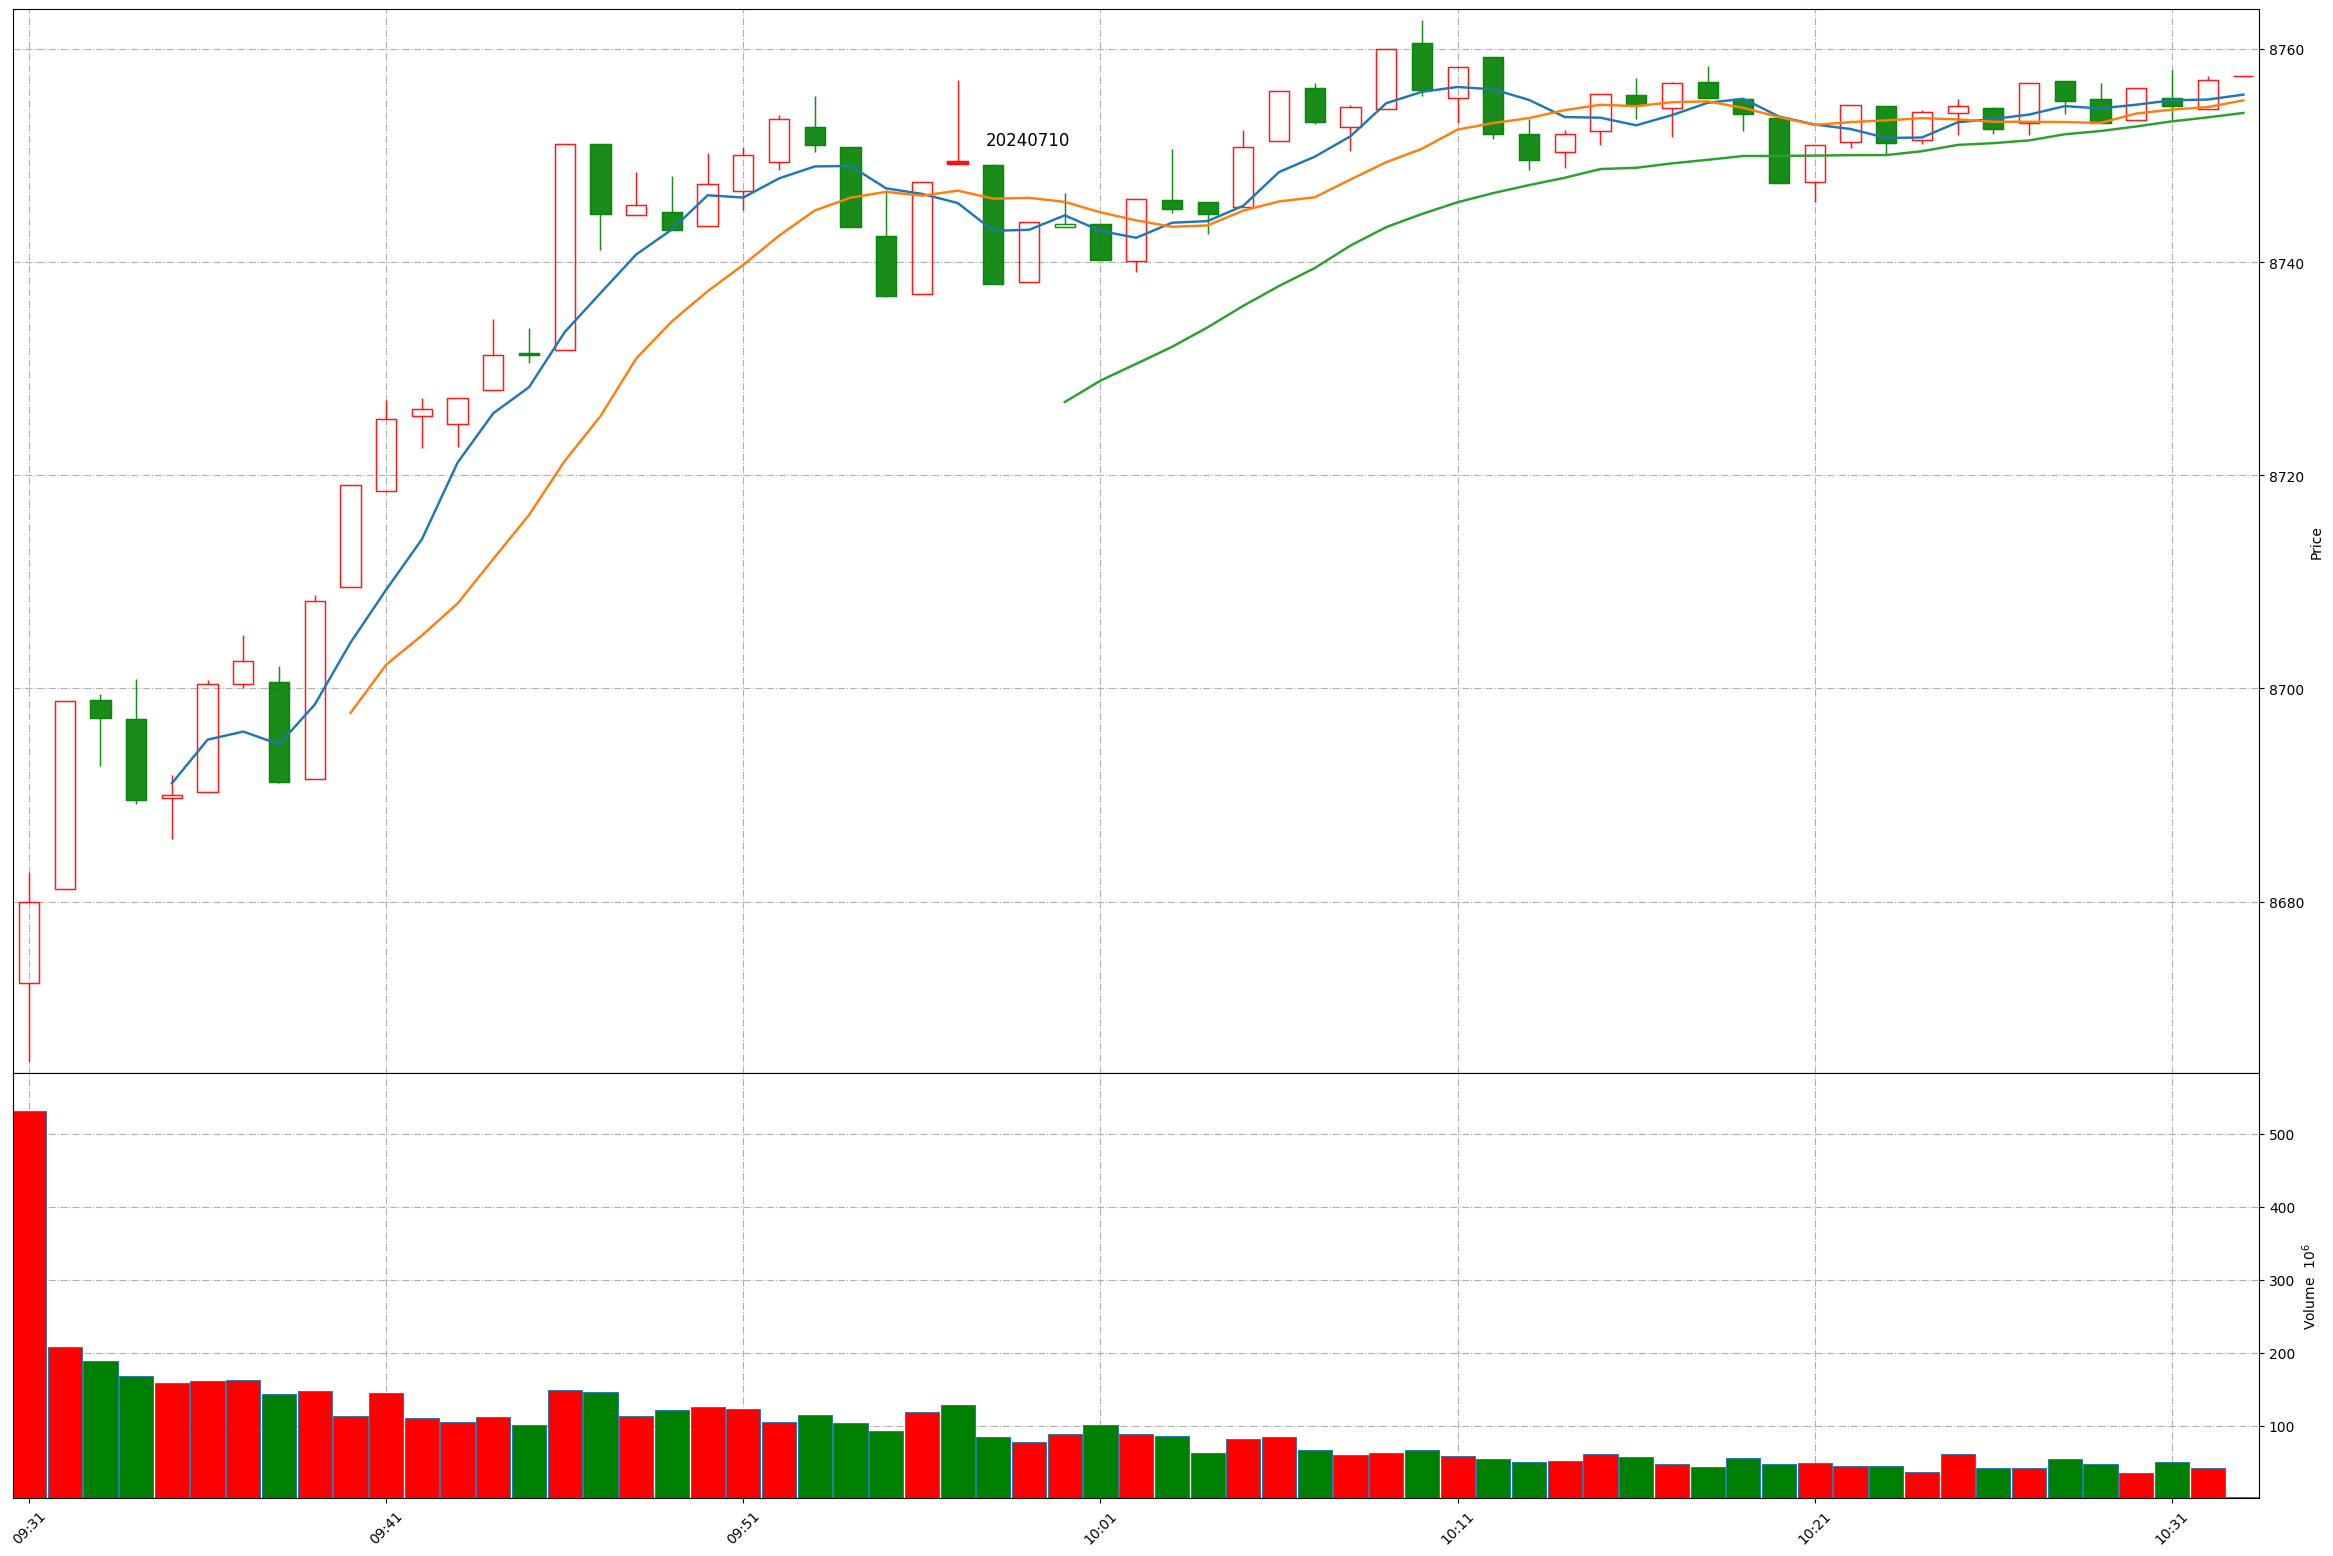
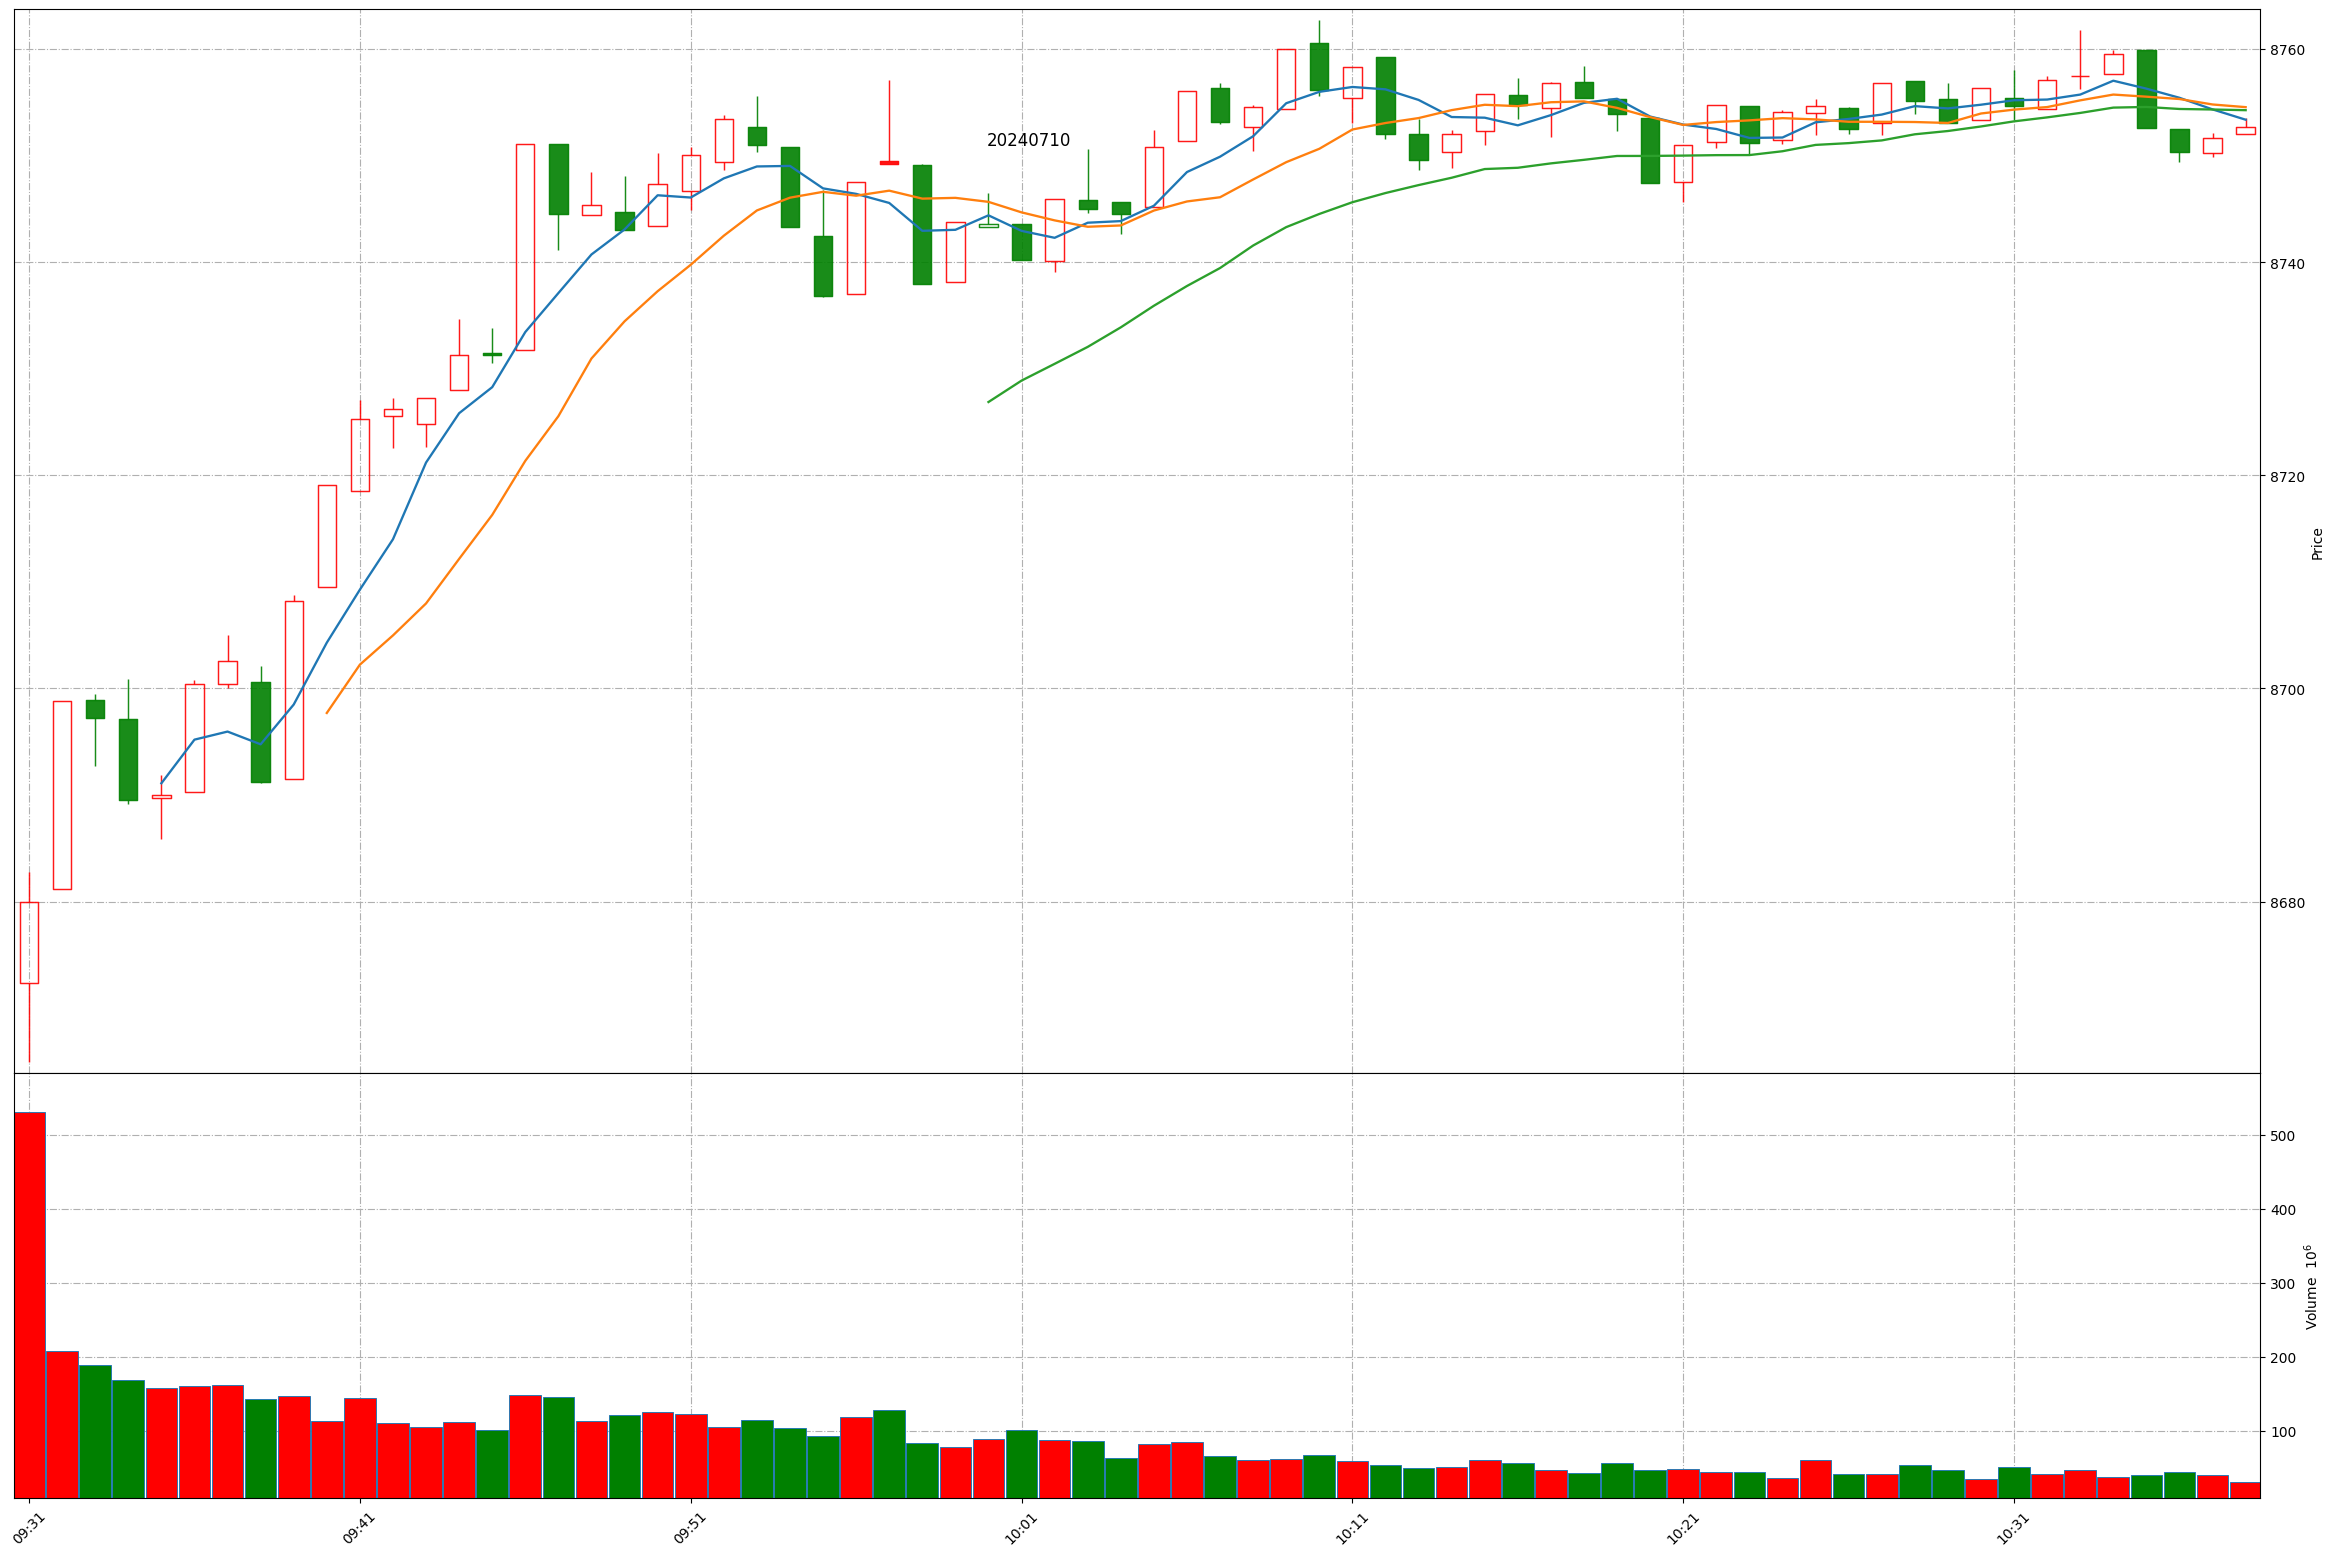
Github action update at 2024-07-10 10:38:00.

diff --git a/README.md b/README.md
@@ -1,11 +1,11 @@
 
 # Daily-A-share-market-quotes 每日 A 股指数（5min 更新）- 20240710
 
-### 上证指数 20240710 10:32
+### 上证指数 20240710 10:38
 ![](./fig/2024/7/20240710-sh000001.png)
 
-### 深证成指 20240710 10:32
+### 深证成指 20240710 10:38
 ![](./fig/2024/7/20240710-sz399001.png)
 
-### 北证50 20240710 10:32
+### 北证50 20240710 10:38
 ![](./fig/2024/7/20240710-bj899050.png)
